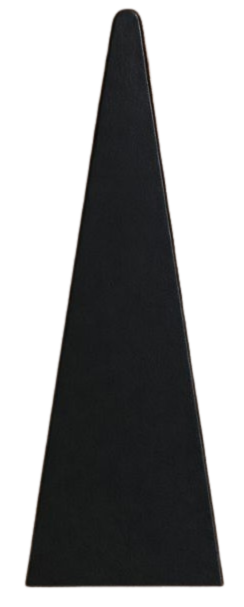
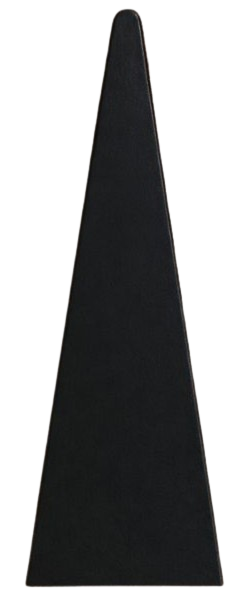
#5 dice will delete after player use them add starting screen that goes the main screen removed backround color and add one to the spots add the pieces (shows still need a fix)

diff --git a/Backgammon/Backgammon.js b/Backgammon/Backgammon.js
@@ -1,22 +1,30 @@
-var countturn = 0;
-var startpositionboard = [2, 0, 0, 0, 0, -5, 0, -3, 0, 0, 0, 5, -5, 0, 0, 0, 3, 0, 5, 0, 0, 0, 0, -2];//1-6 whitbase 18-24 black base
-var selectedIndex = -1;
-var currentDice = [];
+var countturn = 0; //player 1 starts first, even turns for player 1, odd turns for player 2
 
-function diceroll() {
+var startpositionboard = [2, 0, 0, 0, 0, -5, 0, -3, 0, 0, 0, 5, -5, 0, 0, 0, 3, 0, 5, 0, 0, 0, 0, -2];//1-6 whitbase 18-24 black base
+
+var selectedIndex = -1; // -1 means no piece is selected, otherwise it holds the index of the selected piece on the board
+
+var currentDice = []; // holds the current dice rolls for the turn, can be 2 or 4 numbers depending on if the player rolled doubles or not
+
+function diceroll()//roll two dice, if they are the same, player gets 4 moves with that number, otherwise player gets 2 moves with the numbers on the dice
+{ 
     var dice1 = Math.floor(Math.random() * 6) + 1;
     var dice2 = Math.floor(Math.random() * 6) + 1;
 
-    if (dice1 === dice2) {
+    if (dice1 === dice2)
+    {
         currentDice = [dice1, dice1, dice1, dice1];
        
-    } else {
+    }
+    else
+    {
         currentDice = [dice1, dice2];
     }
     document.getElementById("dice1").src = "dice_" + dice1 + "-removebg-preview.png";
     document.getElementById("dice2").src = "dice_" + dice2 + "-removebg-preview.png";
 }
-function playerturn() {
+function playerturn()//determine which player's turn it is based on the countturn variable, and alert the player whose turn it is
+{
     if (countturn % 2 === 0) {
         alert("Player 1's turn");
         countturn++;
@@ -30,11 +38,11 @@ function playerturn() {
 
 }
 
-function move(clickedIndex) {
-    
+function move(clickedIndex)// handle the logic for moving a piece on the board when a player clicks on a position. If no piece is currently selected, it will select the piece at the clicked index if it belongs to the current player. If a piece is already selected, it will attempt to move that piece to the clicked index, checking if the move is valid based on the current dice rolls and the state of the board.
+{ 
 
     if (selectedIndex === -1) {
-        
+
         if (startpositionboard[clickedIndex] === 0) {
             alert("אין פה חייל!");
             return;
@@ -45,21 +53,26 @@ function move(clickedIndex) {
         }
     }
 
-    
+
     else {
         var from = selectedIndex;
         var to = clickedIndex;
         var distance = Math.abs(to - from);
         var foundDiceIndex = -1;
-
-        for (var i = 0; i < currentDice.length; i++) {
-            if (currentDice[i] === distance) {
-                foundDiceIndex = i;
-                break;
+        if(currentDice.length==2)
+        {
+            for (var i = 0; i < currentDice.length; i++)
+            {
+                if (currentDice[i] === distance && distance !== 0)
+                {
+                   foundDiceIndex = i;
+                   currentDice[i] = 0; // remove the used dice from the currentDice array
+                   break;
+                }
             }
         }
-
-        if (foundDiceIndex === -1) {
+        if (foundDiceIndex === -1)
+        {
             alert("אין לך קובייה מתאימה למהלך הזה!");
             selectedIndex = -1;
             return;
@@ -69,24 +82,29 @@ function move(clickedIndex) {
 
         if (startpositionboard[from] > 0)
         {
-            if (targetValue <= -2) {
+            if (targetValue <= -2)
+            {
                 alert("אי אפשר להזיז לכאן! המשבצת חסומה על ידי השחור.");
                 selectedIndex = -1;
                 return;
             }
-            else {
+            else
+            {
                 startpositionboard[from] = startpositionboard[from] - 1;
                 startpositionboard[to] = startpositionboard[to] + 1;
             }
         }
         
-        else {
-            if (targetValue >= 2) {
+        else
+        {
+            if (targetValue >= 2)
+            {
                 alert("אי אפשר להזיז לכאן! המשבצת חסומה על ידי הלבן.");
                 selectedIndex = -1;
                 return;
             }
-            else {
+            else
+            {
                 startpositionboard[from] = startpositionboard[from] + 1;
                 startpositionboard[to] = startpositionboard[to] - 1;
             }
@@ -95,3 +113,55 @@ function move(clickedIndex) {
         selectedIndex = -1;
     }
 }
+function drawPieces() {
+    var oldPieces = document.querySelectorAll('.pieces-display');
+    for (var x = 0; x < oldPieces.length; x++) {
+        oldPieces[x].remove();
+    }
+    // מנקים את כל החיילים הקודמים מהמסך כדי לא ליצור כפילויות
+    var oldPieces = document.querySelectorAll('.pieces-display');
+    for (var x = 0; x < oldPieces.length; x++) {
+        oldPieces[x].remove();
+    }
+
+    var allImages = document.getElementsByClassName("lines");
+
+    for (var i = 0; i < allImages.length; i++) {
+        var img = allImages[i];
+        var onclickAttr = img.getAttribute("onclick");
+        var index = parseInt(onclickAttr.match(/\d+/)[0]);
+
+        var count = startpositionboard[index];
+        if (count === 0) continue; // אם אין חיילים, מדלגים
+
+        // יוצרים מיכל חדש לחיילים של המשולש הזה
+        var display = document.createElement("div");
+        display.className = "pieces-display";
+
+        // קובעים את המיקום של המיכל לפי המיקום של התמונה על המסך
+        var rect = img.getBoundingClientRect();
+        display.style.left = (rect.left + rect.width / 2 - 12) + "px"; // מרכז המשולש
+
+        if (index >= 0 && index <= 11) {
+            // שורה עליונה - נתחיל מלמעלה
+            display.style.top = (rect.top + 10) + "px";
+        } else {
+            // שורה תחתונה - נתחיל מלמטה (נשתמש בחישוב הפוך)
+            display.style.top = (rect.top + 10) + "px";
+            display.style.flexDirection = "column-reverse";
+        }
+
+        document.body.appendChild(display);
+
+        // מציירים את החיילים
+        var absCount = Math.abs(count);
+        var color = (count > 0) ? "white-piece" : "black-piece";
+
+        for (var j = 0; j < absCount; j++) {
+            var p = document.createElement("div");
+            p.className = "piece " + color;
+            display.appendChild(p);
+        }
+    }
+}
+window.onload = drawPieces;

diff --git a/Backgammon/Backgammon.html b/Backgammon/Backgammon.html
@@ -7,45 +7,45 @@
 <body>
 
 
-    <table>
-    </table>
-    <tr>
-        <img class="lines" onclick="move(0)" src="upsideblack.png" />
-        <img class="lines" onclick="move(1)" src="upsidewhite.png" />
-        <img class="lines" onclick="move(2)" src="upsideblack.png" />
-        <img class="lines" onclick="move(3)" src="upsidewhite.png" />
-        <img class="lines" onclick="move(4)" src="upsideblack.png" />
-        <img class="lines" onclick="move(5)" src="upsidewhite.png" />
+    <table class="board" style="border:solid">
+    
+     <tr>
+        <img id="slot-0" class="lines" onclick="move(0)" src="upsideblack.png" />
+        <img id="slot-1" class="lines" onclick="move(1)" src="upsidewhite.png" />
+        <img id="slot-2" class="lines" onclick="move(2)" src="upsideblack.png" />
+        <img id="slot-3" class="lines" onclick="move(3)" src="upsidewhite.png" />
+        <img id="slot-4" class="lines" onclick="move(4)" src="upsideblack.png" />
+        <img id="slot-5" class="lines" onclick="move(5)" src="upsidewhite.png" />
 
         <img src="blackline-removebg-preview.png" />
 
-        <img class="lines" onclick="move(6)" src="upsideblack.png" />
-        <img class="lines" onclick="move(7)" src="upsidewhite.png" />
-        <img class="lines" onclick="move(8)" src="upsideblack.png" />
-        <img class="lines" onclick="move(9)" src="upsidewhite.png" />
-        <img class="lines" onclick="move(10)" src="upsideblack.png" />
-        <img class="lines" onclick="move(11)" src="upsidewhite.png" />
+        <img id="slot-6" class="lines" onclick="move(6)" src="upsideblack.png" />
+        <img id="slot-7" class="lines" onclick="move(7)" src="upsidewhite.png" />
+        <img id="slot-8" class="lines" onclick="move(8)" src="upsideblack.png" />
+        <img id="slot-9" class="lines" onclick="move(9)" src="upsidewhite.png" />
+        <img id="slot-10" class="lines" onclick="move(10)" src="upsideblack.png" />
+        <img id="slot-11" class="lines" onclick="move(11)" src="upsidewhite.png" />
 
-    </tr>
-    <br />
+     </tr>
+     <br />
 
-    <tr>
-        <img class="lines" onclick="move(18)" src="white.png" />
-        <img class="lines" onclick="move(19)" src="black.png" />
-        <img class="lines" onclick="move(20)" src="white.png" />
-        <img class="lines" onclick="move(21)" src="black.png" />
-        <img class="lines" onclick="move(22)" src="white.png" />
-        <img class="lines" onclick="move(23)" src="black.png" />
+     <tr>
+        <img id="slot-23" class="lines" onclick="move(23)" src="white.png" />
+        <img id="slot-22" class="lines" onclick="move(22)" src="black.png" />
+        <img id="slot-21" class="lines" onclick="move(21)" src="white.png" />
+        <img id="slot-20" class="lines" onclick="move(20)" src="black.png" />
+        <img id="slot-19" class="lines" onclick="move(19)" src="white.png" />
+        <img id="slot-18" class="lines" onclick="move(18)" src="black.png" />
 
         <img src="blackline-removebg-preview.png" />
 
-        <img class="lines" onclick="move(12)" src="white.png" />
-        <img class="lines" onclick="move(13)" src="black.png" />
-        <img class="lines" onclick="move(14)" src="white.png" />
-        <img class="lines" onclick="move(15)" src="black.png" />
-        <img class="lines" onclick="move(16)" src="white.png" />
-        <img class="lines" onclick="move(17)" src="black.png" />
-    </tr>
+        <img id="slot-17" class="lines" onclick="move(17)" src="white.png" />
+        <img id="slot-16" class="lines" onclick="move(16)" src="black.png" />
+        <img id="slot-15" class="lines" onclick="move(15)" src="white.png" />
+        <img id="slot-14" class="lines" onclick="move(14)" src="black.png" />
+        <img id="slot-13" class="lines" onclick="move(13)" src="white.png" />
+        <img id="slot-12" class="lines" onclick="move(12)" src="black.png" />
+     </tr>
     </table>
     <img id="dice2" class="dice" onclick="diceroll()" src="dice_1-removebg-preview.png" />
     <img id="dice1" class="dice" onclick="diceroll()" src="dice_1-removebg-preview.png" />

diff --git a/Backgammon/Backgammon.css b/Backgammon/Backgammon.css
@@ -1,7 +1,35 @@
 body {
-    background-color:darkgreen
+    background-color:white
 }
 .dice {
     width: 300px;
     height: 300px;
+}
+.lines{
+    background-color: burlywood;
+}
+.piece {
+    width: 25px;
+    height: 25px;
+    border-radius: 50%;
+    border: 1px solid black;
+    margin: 2px auto;
+}
+
+.white-piece {
+    background-color: white;
+}
+
+.black-piece {
+    background-color: black;
+}
+
+/* המיכל של החיילים - נצמיד אותו למקום */
+.pieces-display {
+    position: absolute;
+    width: 30px; /* רוחב המשולש בערך */
+    display: flex;
+    flex-direction: column;
+    pointer-events: none; /* שלא יפריע ללחיצה על המשולש */
+    z-index: 10;
 }

diff --git a/Backgammon/Backgammonstartingscreen.html b/Backgammon/Backgammonstartingscreen.html
@@ -1,0 +1,17 @@
+<!DOCTYPE html>
+<html>
+<head>
+    <meta charset="utf-8" />
+    <title></title>
+    <link />
+
+    
+</head>
+<body>
+    <h1 style="font-size: 100px;text-align: center ">ברוכים הבאים לשש-בש</h1>
+    <a href="Backgammon.html">
+        <button style="width: 400px; height:400px; font-size: 100px;" text-align: center>התחל משחק</button>
+    </a>
+    <link href="Backgammon.css" rel="stylesheet" />
+</body>
+</html>
